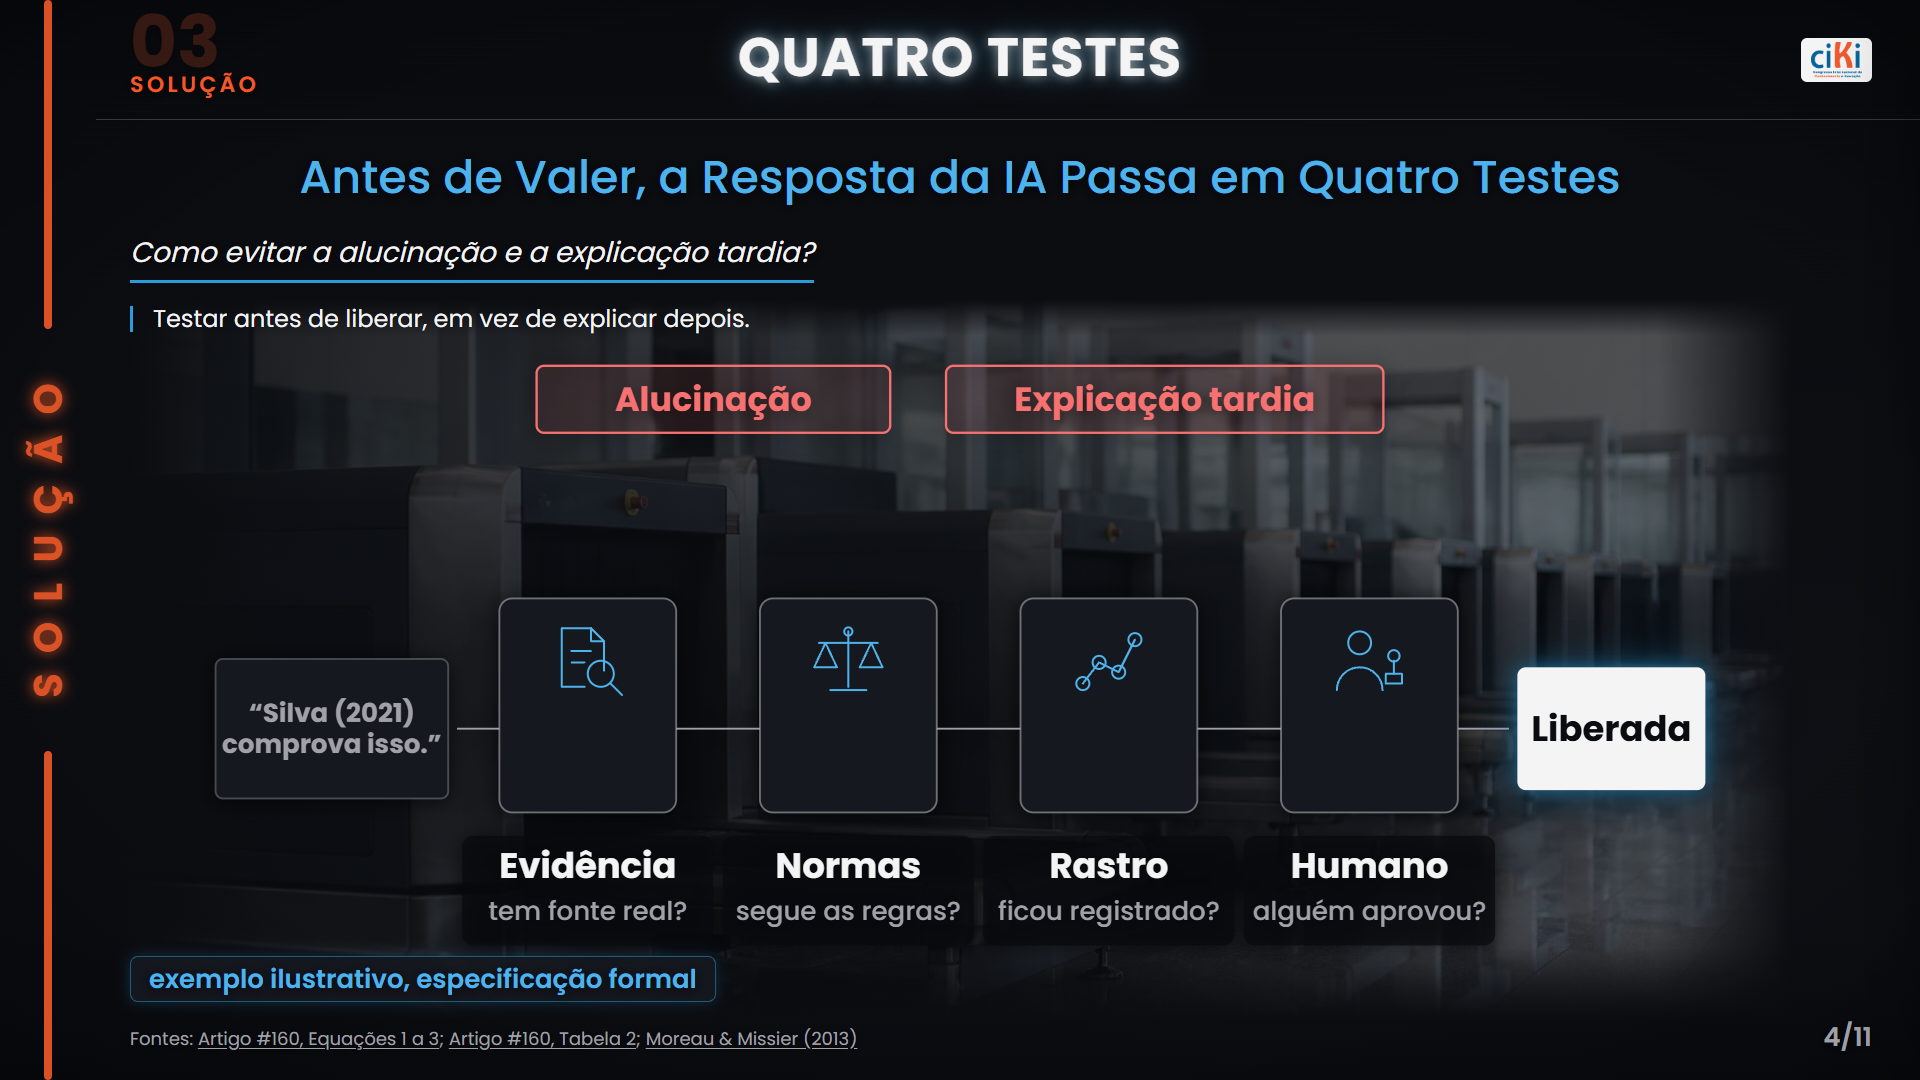
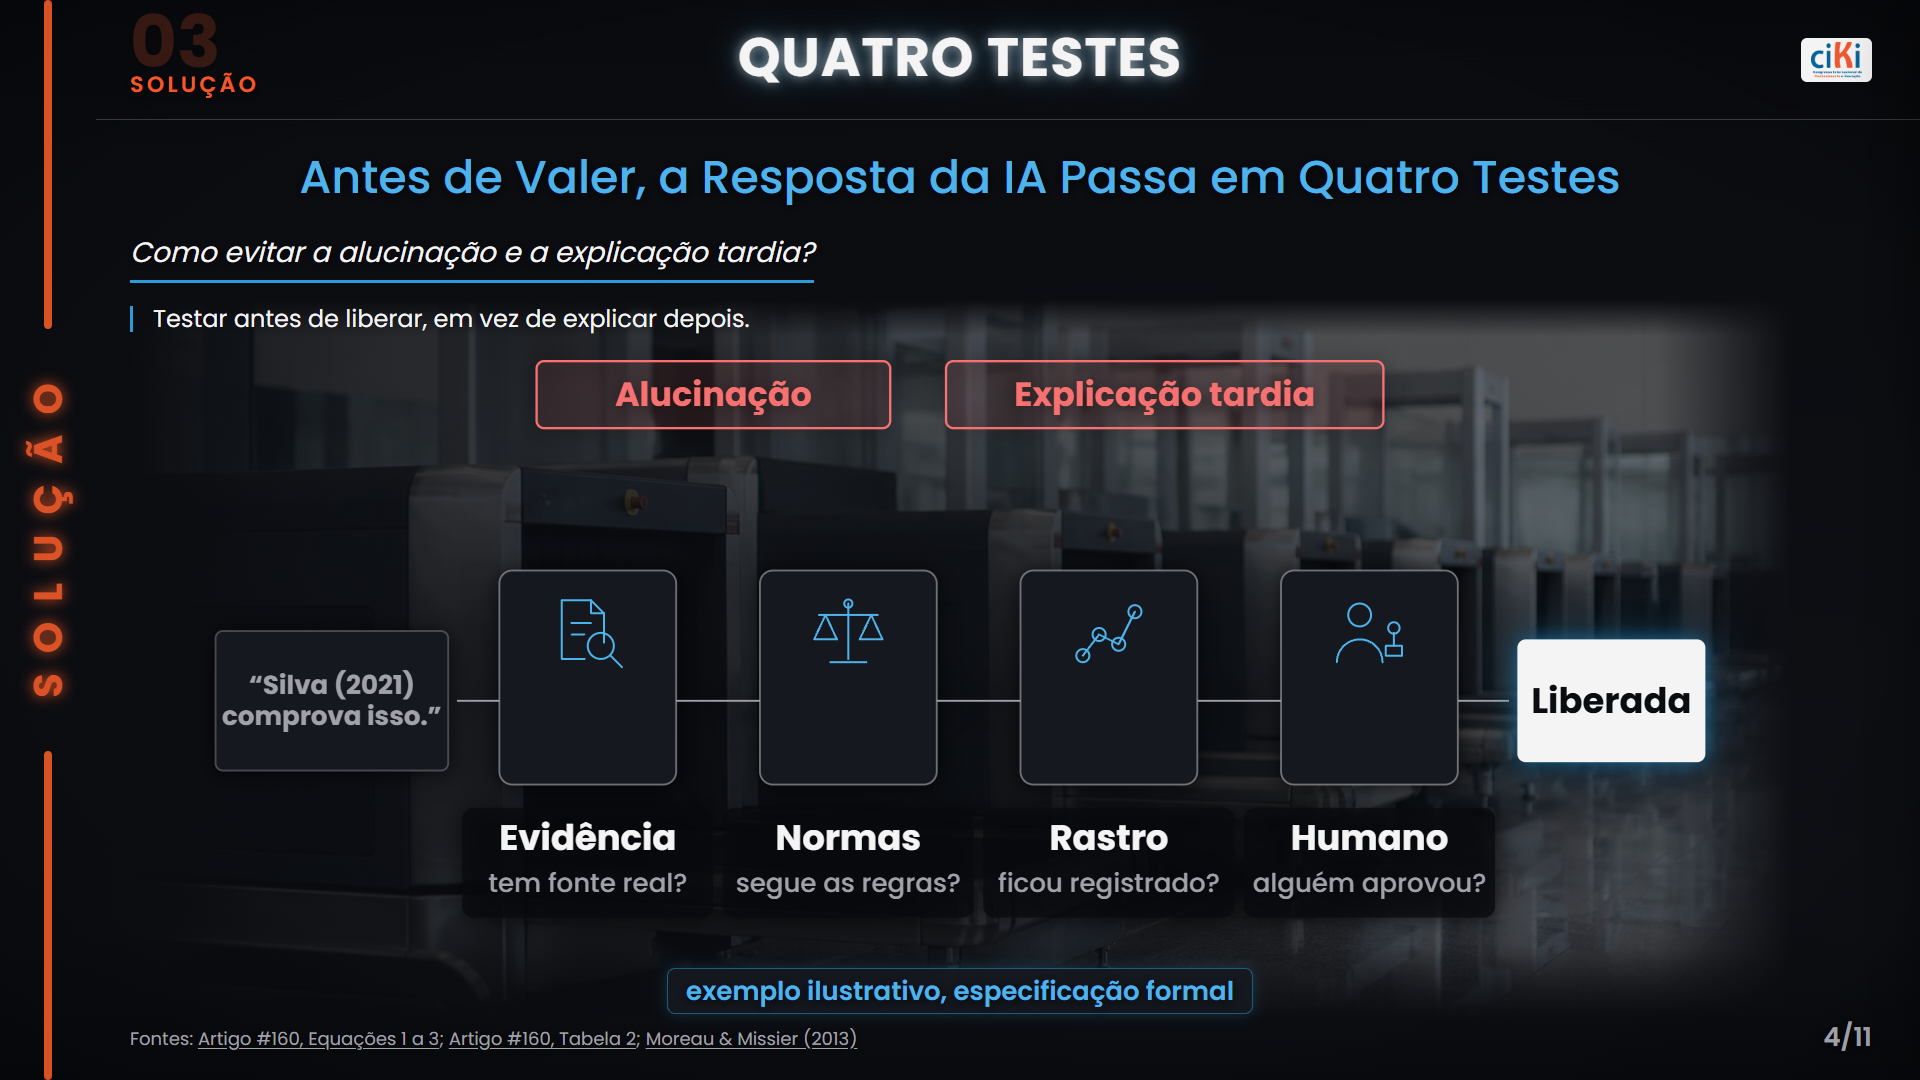
Slide 4: animação mais centrada na vertical e selo centralizado

diff --git a/web/deck.js b/web/deck.js
@@ -402,13 +402,13 @@ HEROES.s3 = K => {
 const PINOS = { E: '<g data-open="s4-pinoE" aria-label="Teste de evidência: ver o exemplo">', N: '<g data-open="s4-pinoN" aria-label="Teste de normas: ver o exemplo">', T: '<g data-open="s4-pinoT" aria-label="Teste de rastro: ver o exemplo">', H: '<g data-open="s4-pinoH" aria-label="Teste do humano: ver o exemplo">' };
 HEROES.s4 = K => {
   /* v1.16.0: duas frases atravessam quatro testes em fila (ciclo de 14 s, SMIL): a boa passa e é liberada; a com citação fabricada é barrada no primeiro teste */
-  const Y = 75, cy = Y + 390, D = 14, B = 4, x0 = 260, x1 = 1390, cxs = [400, 680, 960, 1240];
+  const Y = 45, cy = Y + 390, D = 14, B = 4, x0 = 260, x1 = 1390, cxs = [400, 680, 960, 1240];
   const info = [['evidencia', 'Evidência', 'tem fonte real?', 'E'], ['normas', 'Normas', 'segue as regras?', 'N'], ['rastro', 'Rastro', 'ficou registrado?', 'T'], ['humano', 'Humano', 'alguém aprovou?', 'H']];
   const an = (attr, vals, kts) => '<animate attributeName="' + attr + '" values="' + vals + '" keyTimes="' + kts + '" dur="' + D + 's" begin="' + B + 's" repeatCount="indefinite"/>';
   const glow = (x, y, w, h, fill, vals, kts) => '<rect class="ao" x="' + x + '" y="' + y + '" width="' + w + '" height="' + h + '" rx="14" fill="' + fill + '" opacity="0">' + an('opacity', vals, kts) + '</rect>';
   const tf = cx => 0.04 + 0.46 * (cx - x0) / (x1 - x0);
   let g = '';
-  g += K.box({ x: 345, y: Y, w: 380, h: 72, t: 'Alucinação', size: 36, tone: 'block', step: 1 }) + K.box({ x: 785, y: Y, w: 470, h: 72, t: 'Explicação tardia', size: 36, tone: 'block', step: 1 });
+  g += K.box({ x: 345, y: Y + 25, w: 380, h: 72, t: 'Alucinação', size: 36, tone: 'block', step: 1 }) + K.box({ x: 785, y: Y + 25, w: 470, h: 72, t: 'Explicação tardia', size: 36, tone: 'block', step: 1 });
   g += OG('<g data-open="s4-regras" aria-label="Regra de liberação: ver as regras em forma de código">', HIT(x0, cy - 34, x1 - x0, 68) + K.arrow({ pts: [[x0, cy], [x1, cy]], noHead: true, tone: 'nevoa', dash: true, step: 2 }));
   g += K.box({ x: 0, y: cy - 75, w: 250, h: 150, t: ['“Silva (2021)', 'comprova isso.”'], size: 28, tone: 'nevoa', step: 2 });
   info.forEach((n, i) => {

diff --git a/web/index.html b/web/index.html
@@ -7,7 +7,7 @@
 <link rel="stylesheet" href="fonts/poppins.css">
 <link rel="stylesheet" href="fonts/notosansmath.css">
 <link rel="stylesheet" href="kit.css">
-<link rel="stylesheet" href="deck.css?v=28">
+<link rel="stylesheet" href="deck.css?v=29">
 <link rel="stylesheet" href="matrix8.css">
 <link rel="stylesheet" href="paineis.css">
 </head>
@@ -335,6 +335,6 @@
 <script src="lib/three.min.js"></script>
 <script src="img/mundo.js"></script>
 <script src="matrix8.js"></script>
-<script src="deck.js?v=16"></script>
+<script src="deck.js?v=17"></script>
 </body>
 </html>

diff --git a/web/deck.css b/web/deck.css
@@ -322,3 +322,4 @@ body.reduzir-movimento *{animation:none!important;transition:none!important}
 body.static .ao{display:none}
 .s4 .bgimg.frame{filter:brightness(1.05) saturate(.9)}
 .s4 .bgimg.frame::after{background:radial-gradient(ellipse var(--vrx,40%) var(--vry,46%) at var(--vx,50%) var(--vy,56%),rgba(8,10,14,.6) 0,rgba(8,10,14,.42) 55%,rgba(8,10,14,0) 100%)}
+.s4>.selo{left:0;right:0;width:max-content;margin:0 auto;bottom:66px}
